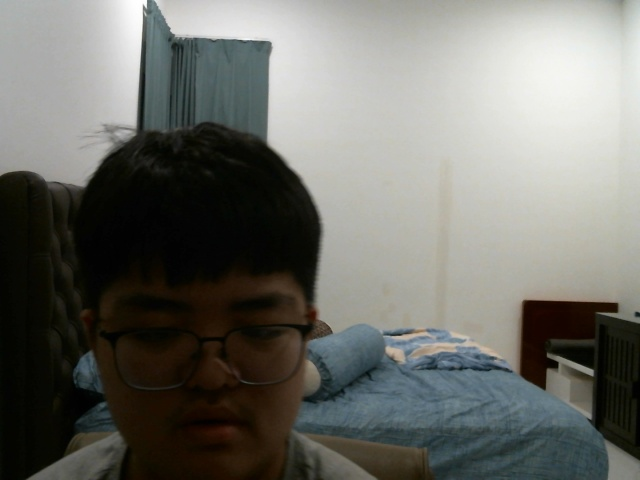
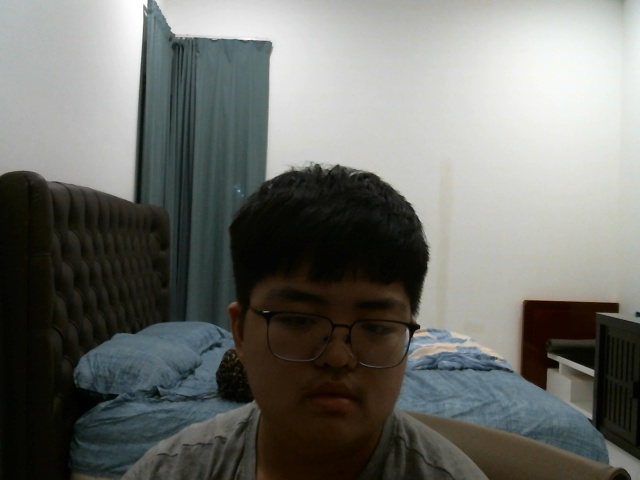
grey picture

diff --git a/i2_how_to-acess webcam.py b/i2_how_to-acess webcam.py
@@ -8,7 +8,7 @@ while True:
     ret, frame = cap.read() # reading camera # this os 
     cv2.imshow("webcam",frame) # showing camera output
 
-    key = cv2.waitKey() & 0xFF # reading key
+    key = cv2.waitKey(1) & 0xFF # reading key
 
     # space key is 32
     if key ==32:

diff --git a/i3_grey_picture.py b/i3_grey_picture.py
@@ -1,0 +1,16 @@
+import cv2
+print('started')
+
+cap =cv2.VideoCapture(0)
+print("cap passed",cap)
+
+while True:
+    r,f = cap.read()
+    cv2.imshow('webcam',f)
+
+    
+
+
+
+cap.release()
+cv2.destroyAllWindows()
